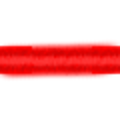
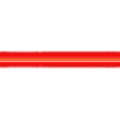
Immagini settate. specchi e tutto fatto

Changed region(s): [[0.0, 0.35, 1.0, 0.675]]

diff --git a/src/main/java/GraphicView/ImageDemon.java b/src/main/java/GraphicView/ImageDemon.java
@@ -1,9 +1,12 @@
 package GraphicView;
 
+import java.awt.BasicStroke;
 import java.awt.Color;
 import java.awt.Graphics;
 import java.awt.Graphics2D;
 import java.awt.Image;
+import java.awt.geom.AffineTransform;
+import java.awt.image.AffineTransformOp;
 import java.awt.image.BufferedImage;
 import java.io.File;
 import java.io.IOException;
@@ -21,7 +24,8 @@ public class ImageDemon {
 	
 	Image laserX;
 	Image laserY;
-	Image mirror;
+	Image mirrorR;
+	Image mirrorL;
 	
 	public static ImageDemon ImgDem;
 	final Color L_COLOR = Color.red; 
@@ -30,8 +34,8 @@ public class ImageDemon {
 		try {
 			laserX = ImageIO.read(new File("./src/Res/lx.png/"));
 			laserY = ImageIO.read(new File("./src/Res/ly.png/"));
-
-			
+			mirrorR = ImageIO.read(new File("./src/Res/mirrorR.png/"));
+			mirrorL = ImageIO.read(new File("./src/Res/mirrorL.png/"));
 		} catch (IOException e) {
 			
 			e.printStackTrace();
@@ -60,37 +64,97 @@ public class ImageDemon {
 	}
 	public void drawLaserOnly(ButtonStrategy b,Graphics2D g2){
 		ArrayList<Laser> ls = b.getCell().getLaser();
+		g2.setColor(L_COLOR);
+		g2.setStroke(new BasicStroke(2));
 		if(!b.getDrawOption()){
 	    	for(Laser x: ls){
-	    		int[] points = getDrawCoords(Direction.flip(x.getFromDir()),b);
-	    		g2.setColor(L_COLOR);
+	    		int[] points = getDrawCoords(Direction.flip(x.getFromDir()),b,false);
 	    		g2.drawLine(points[0], points[1], points[2], points[3]);
-	    		points=getDrawCoords(x.getDir(),b);
+	    		points=getDrawCoords(x.getDir(),b,false);
 	    		g2.drawLine(points[0], points[1], points[2], points[3]);
 	    	}
 		}
+		else
+			for(Laser x: ls){
+	    		int[] points = getDrawCoords(Direction.flip(x.getFromDir()),b,true);
+	    		g2.setColor(L_COLOR);
+	    		Image i=null;
+	    		if(points[4]==0)
+	    			i=laserY;
+	    		else
+	    			i=laserX;
+	    		g2.drawImage(i, points[0], points[1], points[2], points[3], null);
+	    		points=getDrawCoords(x.getDir(),b,true);
+	    		if(points[4]==0)
+	    			i=laserY;
+	    		else
+	    			i=laserX;
+	    		g2.drawImage(i, points[0], points[1], points[2], points[3], null);
+			}
+	}
+	public void drawMirror(ButtonStrategy b, Graphics2D g2){
+		int w=b.getWidth();
+		int h=b.getWidth();
+		if(!b.getDrawOption()){
+	        g2.setColor(Color.black);
+	        g2.setStroke(new BasicStroke(3));
+	        if( b.getWhoamI().equals("/")){
+		       g2.drawLine(w, 0, 0,h);	        
+	        }
+	        else{
+	 	       g2.drawLine(0, 0, w, h);	      
+	        }
+	        g2.setStroke(new BasicStroke(1));
+		}
+		else{
+	        if( b.getWhoamI().equals("/")){
+		       g2.drawImage(mirrorR,0,0,w,h,null);
+	        }
+	        else{
+	        	g2.drawImage(mirrorL,0,0,w,h,null);      
+	        }
+		}
 	}
 	
-	public int[] getDrawCoords(int dir, ButtonStrategy b){
+	public int[] getDrawCoords(int dir, ButtonStrategy b,boolean isImage){
 		int[] ret={0,0,0,0}; //x1 y1 x2 y2
 		int w=b.getWidth();
 		int h=b.getWidth();
 		int wd=w/2;
 		int hd=h/2;
-    	switch(dir){
-			case Direction.UP:
-				 ret[0]=wd; ret[1]=0; ret[2]=wd; ret[3]=hd;
-				break;
-			case Direction.DOWN:
-				 ret[0]=wd; ret[1]=hd; ret[2]=wd;ret[3]= h;
-				break;
-			case Direction.LEFT:
-				 ret[0]=0; ret[1]=hd; ret[2]=wd;ret[3]= hd;
-				break;
-			case Direction.RIGHT:
-				 ret[0]=wd; ret[1]=hd; ret[2]=w;ret[3]= hd;
-				break;
-    	}
+		if(!isImage)
+	    	switch(dir){
+				case Direction.UP:
+					 ret[0]=wd; ret[1]=0; ret[2]=wd; ret[3]=hd;
+					break;
+				case Direction.DOWN:
+					 ret[0]=wd; ret[1]=hd; ret[2]=wd;ret[3]= h;
+					break;
+				case Direction.LEFT:
+					 ret[0]=0; ret[1]=hd; ret[2]=wd;ret[3]= hd;
+					break;
+				case Direction.RIGHT:
+					 ret[0]=wd; ret[1]=hd; ret[2]=w;ret[3]= hd;
+					break;
+	    	}
+		else{
+			ret=new int[]{0,0,0,0,0};
+			switch(dir){
+			// [x,y,width,height,Img0_o_Img1?]
+				case Direction.UP:
+					 ret[0]=0; ret[1]=0; ret[2]=w; ret[3]=hd;ret[4]=0;
+					break;
+				case Direction.DOWN:
+					 ret[0]=0; ret[1]=hd; ret[2]=w;ret[3]= hd;ret[4]=0;
+					break;
+				case Direction.LEFT:
+					 ret[0]=0; ret[1]=0; ret[2]=wd;ret[3]= h;ret[4]=1;
+					break;
+				case Direction.RIGHT:
+					 ret[0]=wd; ret[1]=0; ret[2]=wd;ret[3]= h;ret[4]=1;
+					break;
+			}
+		}
 		return ret;		
 	}
 	

diff --git a/src/main/java/GraphicView/MirrorButton.java b/src/main/java/GraphicView/MirrorButton.java
@@ -32,13 +32,7 @@ public class MirrorButton extends ButtonStrategy {
 		Graphics2D g2 = (Graphics2D)g.create();
         ImageDemon id = ImageDemon.getImageDemon();
         id.drawLaserOnly(this, g2);
-        g2.setColor(Color.black);
-        if( getWhoamI().equals("/")){
-	       g2.drawLine(getWidth(), 0, 0, getHeight());	        
-        }
-        else{
- 	       g2.drawLine(0, 0, getWidth(), getHeight());	      
-        }
+        id.drawMirror(this, g2);
         g2.dispose();
         
 	}	

diff --git a/src/main/java/it/unimi/di/sweng/lasergame/Laser.java b/src/main/java/it/unimi/di/sweng/lasergame/Laser.java
@@ -79,8 +79,6 @@ public class Laser {
 		ArrayList<Support> journey=new ArrayList <Support>();
 		int lastDir=this.direction;
 		while (x >=0 && x<=4 && y>=0 && y<=4 && !win){
-			System.out.println(y+"-"+x);
-			System.out.println(board[x][y].getLaser().size()+" DP ");
 			journey.add(new Support(x, y));
 			board[x][y].action(this);
 			this.fromDirection=lastDir;

diff --git a/src/main/java/GraphicView/ButtonStrategy.java b/src/main/java/GraphicView/ButtonStrategy.java
@@ -8,7 +8,7 @@ public abstract class ButtonStrategy extends JButton{
 	private String whoamI;
 	private int numb;
 	CellStrategy temp;
-	boolean flgImg=false;
+	boolean flgImg=true;
 	public ButtonStrategy(int i,String c,CellStrategy cs){
 		super(c+"");
 		this.numb=i;
